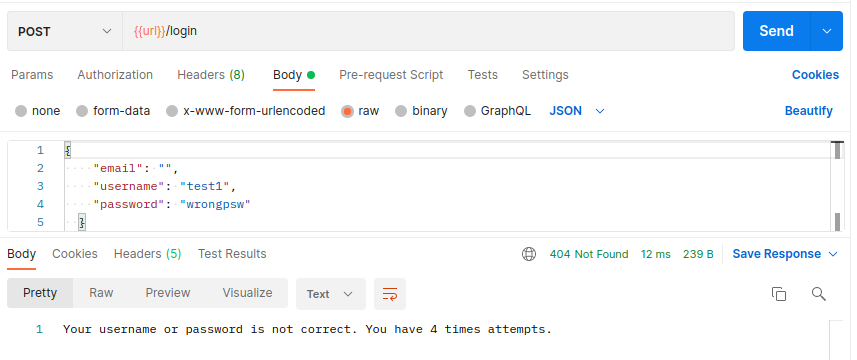
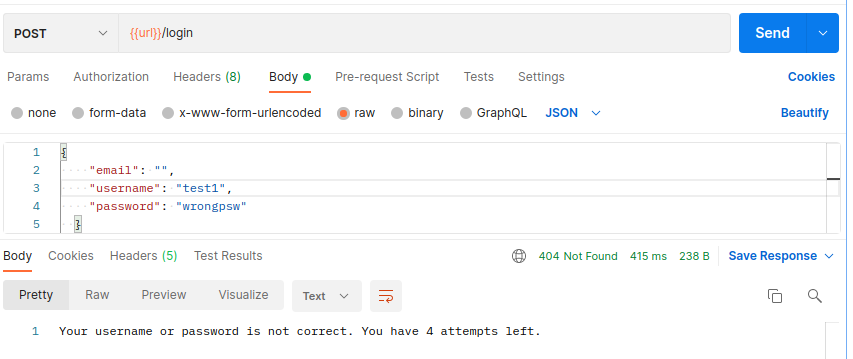
update README.md

diff --git a/src/main/java/com/qianli/login/service/LoginServiceImpl.java b/src/main/java/com/qianli/login/service/LoginServiceImpl.java
@@ -68,7 +68,7 @@ public class LoginServiceImpl implements ILogin {
                 // the password is not correct, count the error
                 errorCount++;
                 redisTemplate.opsForValue().set(redisKey, errorCount, 15L, TimeUnit.MINUTES);
-                throw new IncorrectLoginCredentialException("Your username or password is not correct. You have " + (5-errorCount) + " times attempts.");
+                throw new IncorrectLoginCredentialException("Your username or password is not correct. You have " + (5-errorCount) + " attempts left.");
             }
         } catch (Exception e) {
             throw e;

diff --git a/README.md b/README.md
@@ -32,7 +32,7 @@ Account will be locked out for 15 minutes after exceeding 5 consecutive unsucces
       ```
         * Response Body:
       ```yaml
-            "The username/email or password is not correct. You have x times attempts"
+            "The username/email or password is not correct. You have x attempts left."
       ```
         * Description: <br /> Username/email is correct, but the password is wrong, while the account has not exceeding the maximal unsuccessful attempts, return error message to show how many attempts left.
         * Image: ![](img/loginWhenNotFound2.png)
